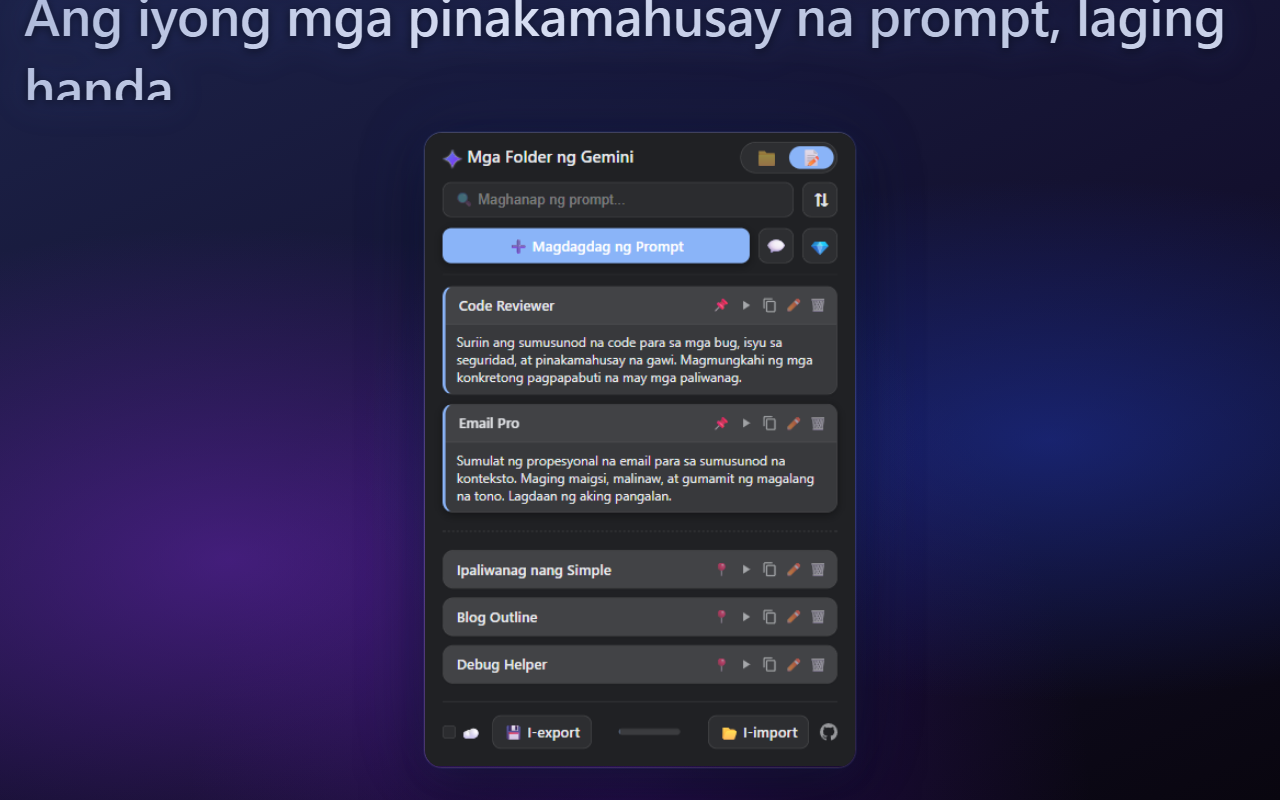
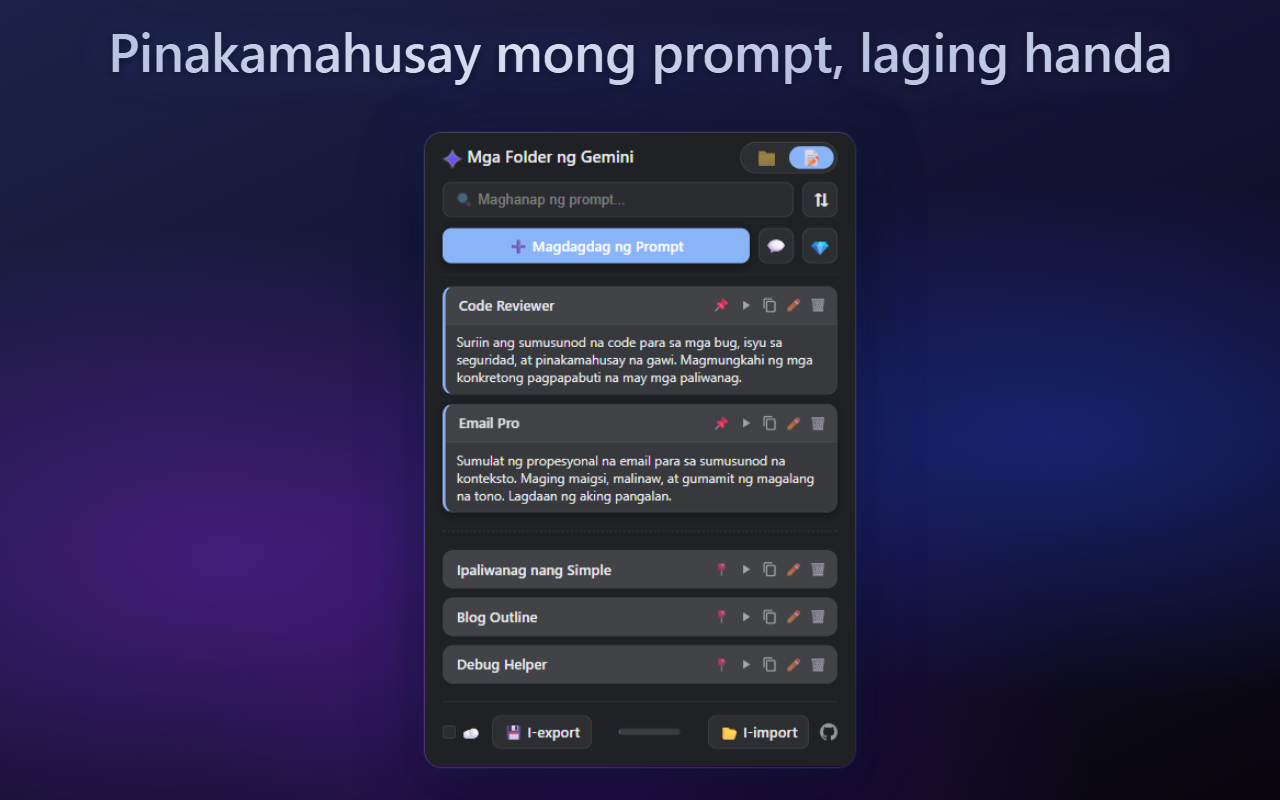
Tweak to Tagalog and Arabic localizations

Changed region(s): [[0.0, 0.0, 0.9688, 0.125]]

diff --git a/screenshots/sample-data.js b/screenshots/sample-data.js
@@ -1041,7 +1041,7 @@ module.exports = {
     folderLabel:      '📁 Folder Mode',
     promptLabel:      '📝 Prompt Mode',
     folderScreenTitle: 'Panatilihing maayos ang iyong mga pag-uusap',
-    promptScreenTitle: 'Ang iyong mga pinakamahusay na prompt, laging handa',
+    promptScreenTitle: 'Pinakamahusay mong prompt, laging handa',
     mobileScreenTitle: 'I-access ang mga Gemini chat sa iyong telepono',
     contextMenuScreenTitle: 'I-save ang pag-uusap sa isang right-click',
     ctxMenuSaveLabel: 'I-save sa Mga Folder ng Gemini',